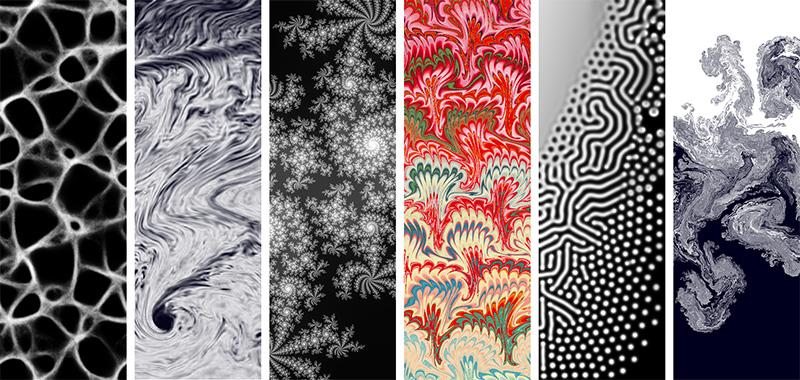
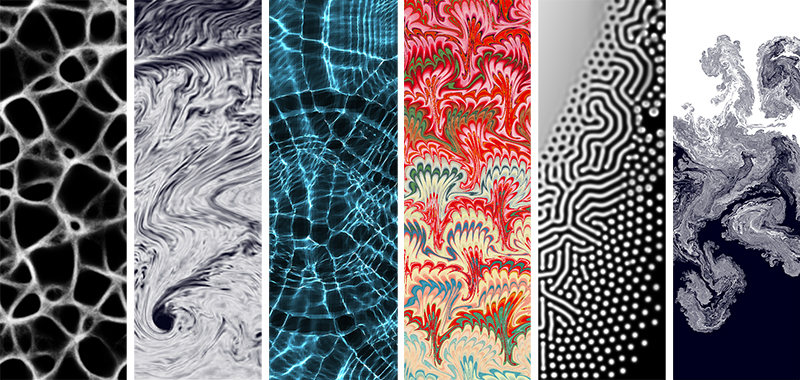
docs

diff --git a/examples/index.html b/examples/index.html
@@ -29,7 +29,7 @@
 <p><a href="https://apps.amandaghassaei.com/gpu-io/examples/fluid/"><img src="./fluid/main.png" alt="Fluid Simulation"></a><br>This simulation solves the <a href="https://en.wikipedia.org/wiki/Navier%E2%80%93Stokes_equations">Navier-Stokes equations</a> for incompressible fluids. The fluid visualization includes thousands of <a href="https://en.wikipedia.org/wiki/Lagrangian_particle_tracking">Lagrangian particles</a> that follow the velocity field and leave behind semi-transparent trails as they move.</p>
 <h2 id="threejs">ThreeJS</h2>
 <h3 id="2d-wave-equation"><a href="https://apps.amandaghassaei.com/gpu-io/examples/threejs/">2D Wave Equation</a></h3>
-<p><a href="https://apps.amandaghassaei.com/gpu-io/examples/threejs/"><img src="./threejs/main.png" alt="2D Wave Equation"></a><br>This app simulates the <a href="https://en.wikipedia.org/wiki/Wave_equation">2D wave equation</a> and renders the resulting height field as an RGB texture and as a 3D mesh.  All computations are performed in gpu-io and the results are passed to <a href="https://threejs.org/">Threejs</a> without ever leaving the GPU.</p>
+<p><a href="https://apps.amandaghassaei.com/gpu-io/examples/threejs/"><img src="./threejs/main.png" alt="2D Wave Equation"></a><br>This app simulates the <a href="https://en.wikipedia.org/wiki/Wave_equation">2D wave equation</a> and renders the resulting height field as a 3D mesh  Additionally, it simulates realtime <a href="https://en.wikipedia.org/wiki/Caustic_(optics)">caustics</a> formed by light shining through the 3D surface and renders the result as a texture (<a href="https://medium.com/@evanwallace/rendering-realtime-caustics-in-webgl-2a99a29a0b2c">method described in more detail by Evan Wallace</a>).  All computations are performed in gpu-io and the results are passed to <a href="https://threejs.org/">Threejs</a> without ever leaving the GPU.</p>
 <h2 id="simple-examples">Simple Examples</h2>
 <h3 id="conways-game-of-life"><a href="https://apps.amandaghassaei.com/gpu-io/examples/gol/">Conway&#39;s Game of Life</a></h3>
 <p><a href="https://apps.amandaghassaei.com/gpu-io/examples/gol/"><img src="./gol/main.png" alt="Conway&#39;s Game of Life"></a><br>The 1-bit cellular automaton <a href="https://en.wikipedia.org/wiki/Conway%27s_Game_of_Life">Conway&#39;s Game of Life</a>.</p>

diff --git a/examples/threejs/index.js b/examples/threejs/index.js
@@ -42,15 +42,15 @@ function main({ gui, contextID, glslVersion }) {
 	};
 
 	// Size of the simulation.
-	const TEXTURE_DIM = [100, 100];
-	const CAUSTICS_TEXTURE_SCALE_FACTOR = 6; // Increase in resolution of caustics texture from TEXTURE_DIM.
+	const TEXTURE_DIM = [200, 200];
+	const CAUSTICS_TEXTURE_SCALE_FACTOR = 10; // Increase in resolution of caustics texture from TEXTURE_DIM.
 	// Some simulation constants.
 	// https://beltoforion.de/en/recreational_mathematics/2d-wave-equation.php
 	const DT = 1;
 	const DX = 1;
 	const DECAY = 0.005;
 	// Drop parameters.
-	const NUM_FRAMES_BETWEEN_DROPS = 150;
+	const NUM_FRAMES_BETWEEN_DROPS = 100;
 	const DROP_DIAMETER = 10;
 	// Grid mesh amplitude scale.
 	const GRID_MESH_Y_SCALE = 3;
